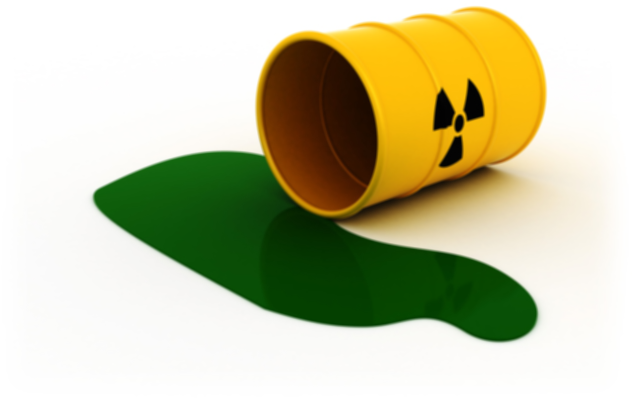
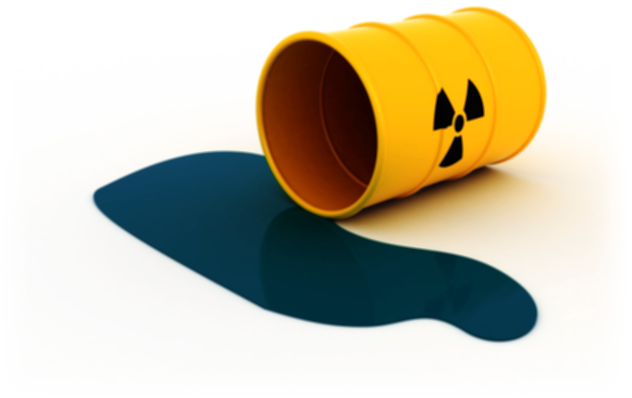
imp: arcade mode: changed coloring to blu-ish, using new launch button images from JacKc

Changed region(s): [[0.1203, 0.3618, 0.8718, 0.8744]]

diff --git a/arcade/qml/ToxicWaste/ToxicWaste.qml b/arcade/qml/ToxicWaste/ToxicWaste.qml
@@ -29,10 +29,13 @@ Rectangle {
     width: ToxicWaste.baseWidth
     height: ToxicWaste.baseHeight
     z: 0
-    gradient: Gradient {
-        GradientStop { position: 0.00; color: "#3aa82b" }
-        GradientStop { position: 0.75; color: "#ffffff" }
-        GradientStop { position: 1.00; color: "#000000" }
+    Image {
+       id: backGroundImage
+       anchors.fill: parent
+       fillMode: Image.PreserveAspectFit
+       source: "images/shadereffectsource.png"
+       smooth: true
+       z: 0
     }
     Image {
         id: toxicImage
@@ -103,7 +106,7 @@ Rectangle {
                 smooth: true
                 gradient: Gradient {
                     GradientStop { position: 0.00; color: "#ffffff" }
-                    GradientStop { position: 0.50; color: "#c0f08c" }
+                    GradientStop { position: 0.50; color: "#007bff" }
                 }
                 Text {
                     id: itemDescription
@@ -239,28 +242,35 @@ Rectangle {
             }
         }
     }
-    Image {
-        id: launchButton
-        source: ToxicWaste.launchButtonSource()
-        width: 64
-        height: 64
-        opacity: 0.7
+    Rectangle {
         anchors.verticalCenter: parent.verticalCenter
-        anchors.verticalCenterOffset: 32 * ToxicWaste.scaleFactorX() - toxicWasteMain.height/2
+        anchors.verticalCenterOffset: 29 * ToxicWaste.scaleFactorX() - toxicWasteMain.height/2
         anchors.horizontalCenter: parent.horizontalCenter
-        anchors.horizontalCenterOffset: 32 * ToxicWaste.scaleFactorX() - toxicWasteMain.width/2
+        anchors.horizontalCenterOffset: 29 * ToxicWaste.scaleFactorX() - toxicWasteMain.width/2
         scale: ToxicWaste.scaleFactorX()
+        width: 48
+        height: 48
         z: 4
+        color: "darkgrey"
+        radius: 26
         smooth: true
-        fillMode: Image.PreserveAspectFit
-        MouseArea {
+        Image {
+            id: launchButton
+            source: ToxicWaste.launchButtonSource()
+            opacity: 0.8
+            smooth: true
             anchors.fill: parent
-            hoverEnabled: true
-            onEntered: parent.opacity = 1.0
-            onExited: parent.opacity = 0.7
-            onClicked: {
-                viewer.launchEmulator(gameListModel[gamelistView.currentIndex].id);
-                searchTextInput.focus = false;
+            fillMode: Image.PreserveAspectFit
+            z: 4
+            MouseArea {
+                anchors.fill: parent
+                hoverEnabled: true
+                onEntered: parent.opacity = 1.0
+                onExited: parent.opacity = 0.8
+                onClicked: {
+                    viewer.launchEmulator(gameListModel[gamelistView.currentIndex].id);
+                    searchTextInput.focus = false;
+                }
             }
         }
     }
@@ -361,7 +371,7 @@ Rectangle {
         Timer {
             id: launchButtonFlashTimer
             running: false
-            onTriggered: launchButton.opacity = 0.5
+            onTriggered: launchButton.opacity = 0.8
             interval: 100
         }
         Keys.onPressed: {

diff --git a/data/doc/html/us/changes.html b/data/doc/html/us/changes.html
@@ -5,7 +5,7 @@
   <title>M.A.M.E./M.E.S.S./U.M.E. Catalog / Launcher II Documentation - CHANGES</title>
 </head>
 <body style="color: black; background-image:url(../images/doc-bg.jpg);" dir="ltr" alink="#111111" link="#111111" vlink="#999999">
-<h3>CHANGES - v0.38, 12-DEC-2012</h3>
+<h3>CHANGES - v0.38, 14-DEC-2012</h3>
 <p>
 fix: general bug fixes<br>
 imp: improved functionality<br>
@@ -14,7 +14,7 @@ wip: (incomplete) work in progress<br>
 doc: documentation changes<br>
 inf: informational only
 </p>
-<p><b>v0.38, 12-DEC-2012:</b></p>
+<p><b>v0.38, 14-DEC-2012:</b></p>
 <ul>
   <li>fix: corrected progress-bar updates when loading <i>catver.ini</i> or <i>category.ini</i></li>
   <li>fix: corrected remapping of key-sequences using the Command key on Mac OS X</li>
